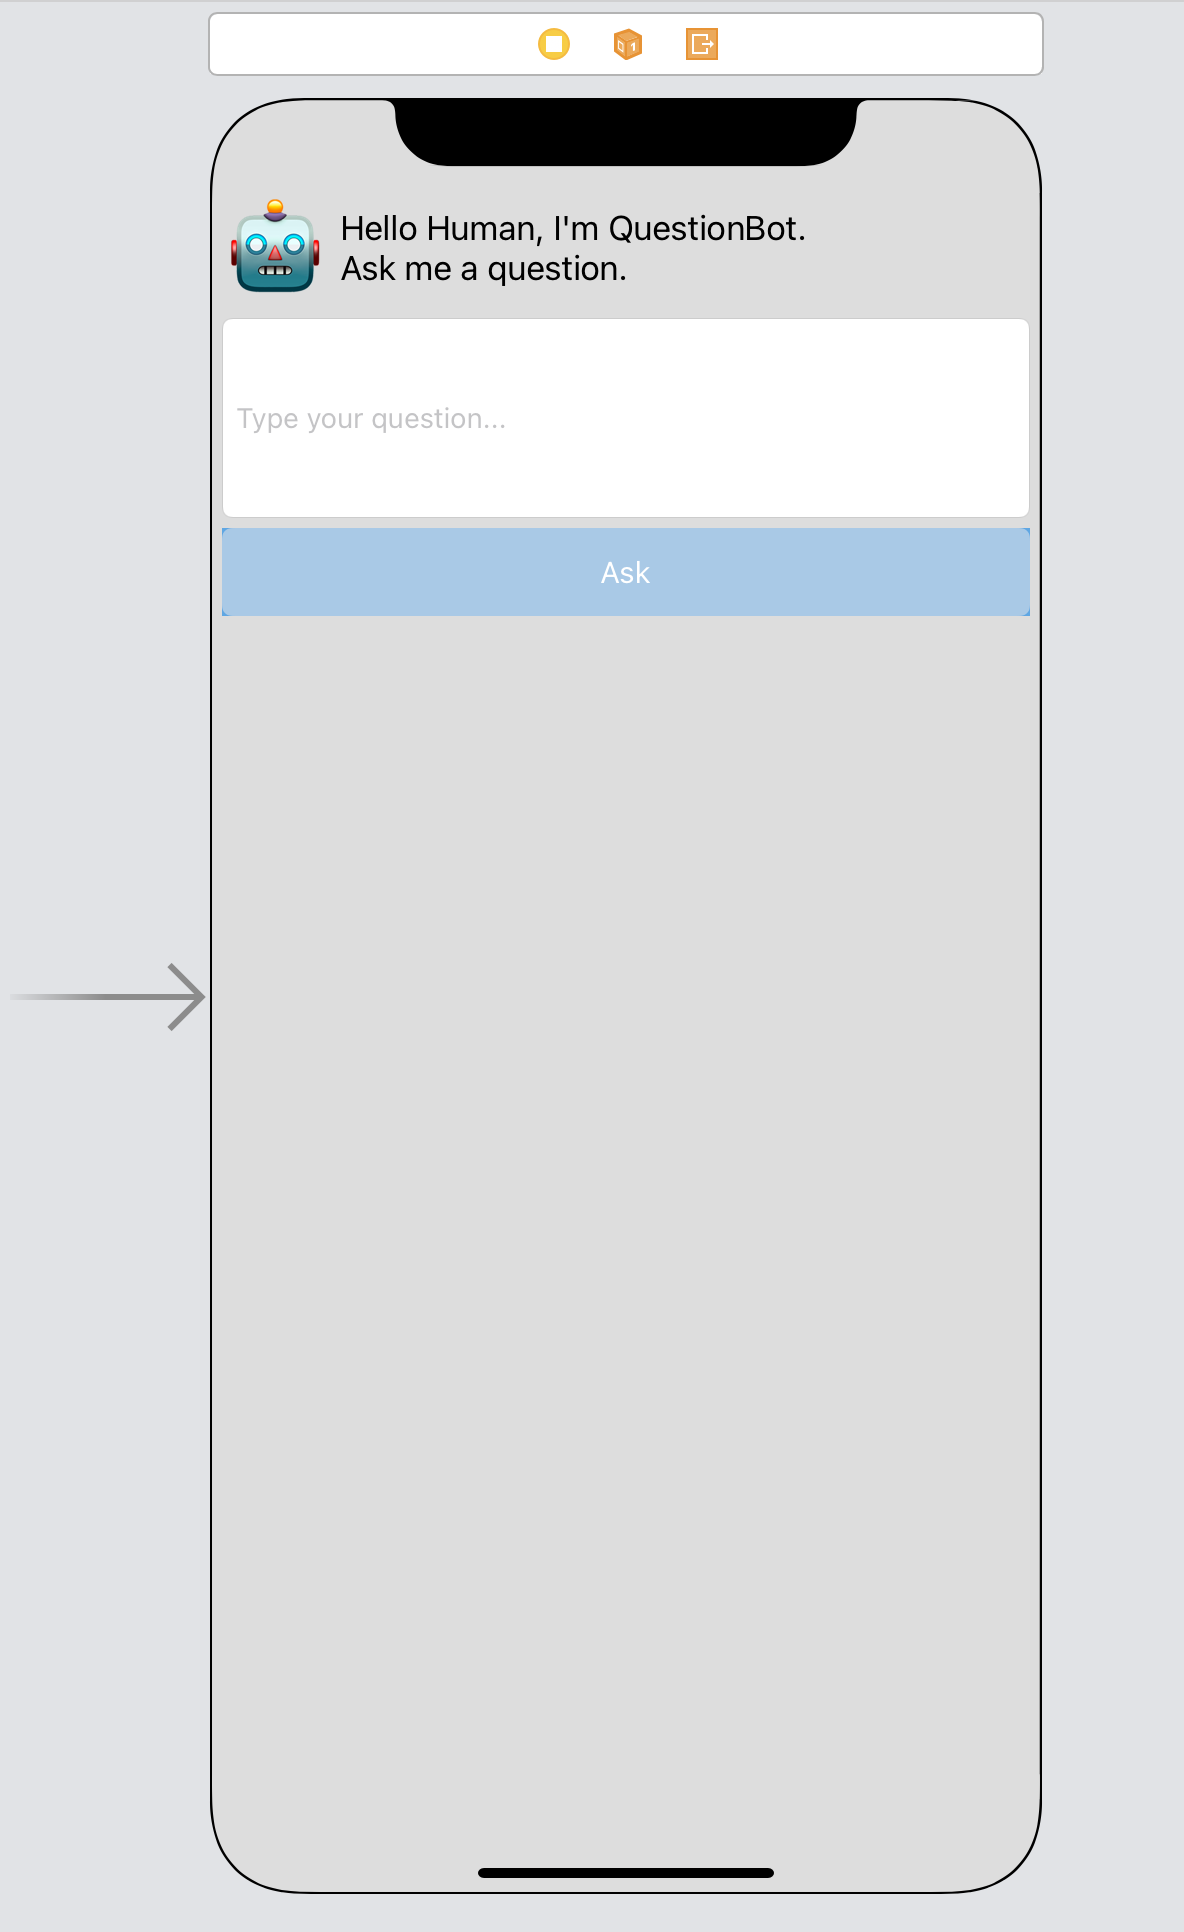
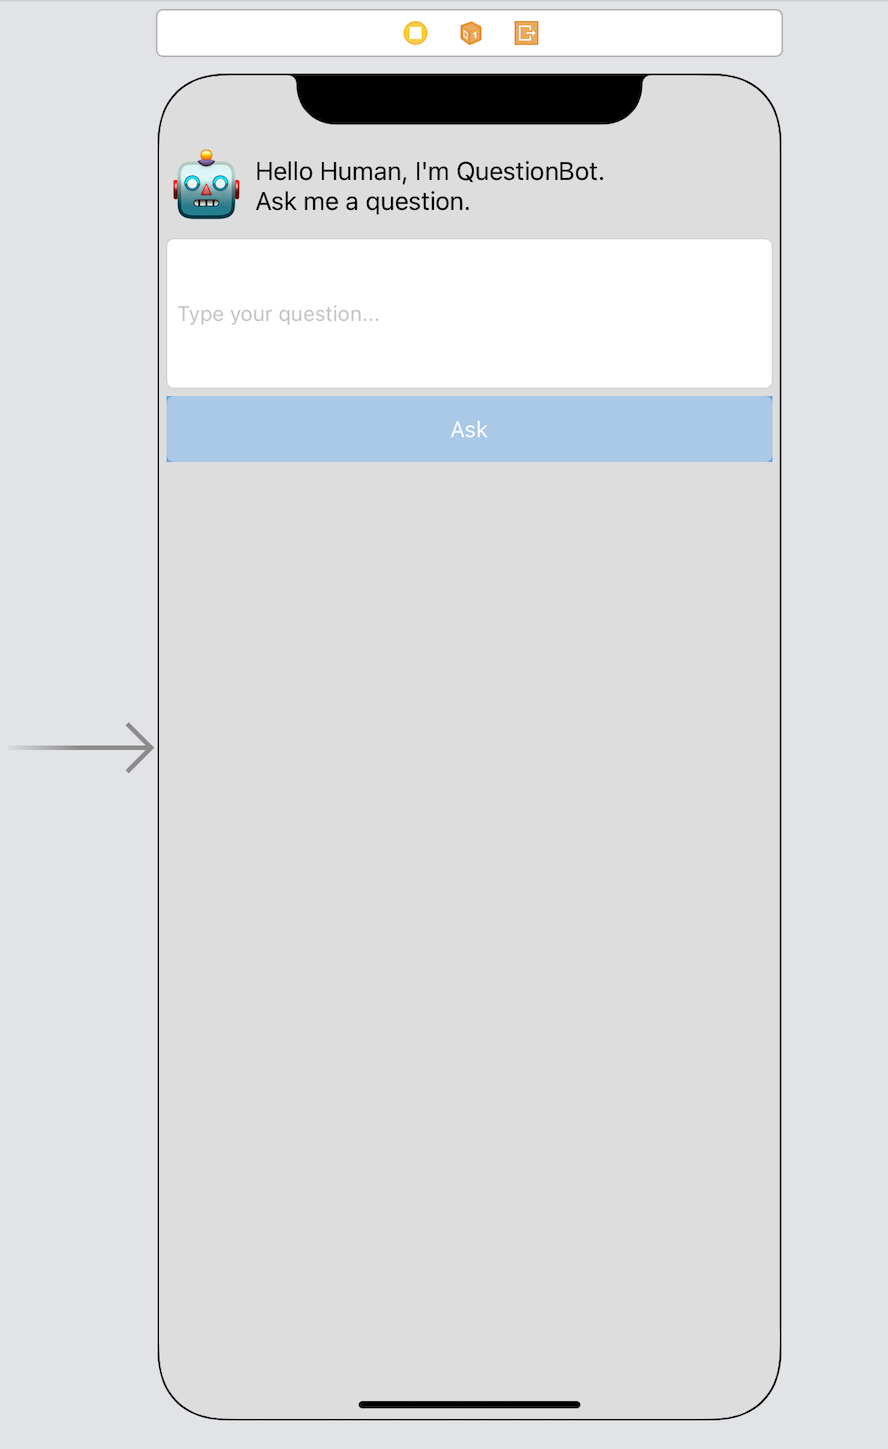
Added a little more info to the ReadMe and downsized the screenshot.

Changed region(s): [[0.5777, 0.0, 0.6081, 0.0311]]

diff --git a/ReadMe.md b/ReadMe.md
@@ -1,5 +1,5 @@
 # QuestionBot-SwiftUI
-This is a version of the QuestionBot project that appears in the Develop in Swift Explorations curriculum, but re-done in SwiftUI.
+This is a version of the QuestionBot project that appears in the Develop in Swift Explorations curriculum (https://apple.co/developinswiftexplorations), but re-done in SwiftUI.
 
 The intention is to show you how you might translate a familiar UI to SwiftUI and what it means for your code. You will be able to compare and constrast this project against your own QuestionBot project from Develop in Swift Explorations.
 
@@ -40,3 +40,6 @@ In the [`ui-styling` branch](https://github.com/mhanlon/QuestionBot-SwiftUI/tree
 
 ### `action`
 In the [`action` branch](https://github.com/mhanlon/QuestionBot-SwiftUI/tree/action), we'll hook up the Ask button to hit our logic from the `QuestionAnswerer.swift`.
+
+### `main`
+In the [`main` branch](https://github.com/mhanlon/QuestionBot-SwiftUI/tree/main), we're aligned with the `action` branch, so look out for spoilers! If you want to try to implement it from scratch you should use the `start` branch.
